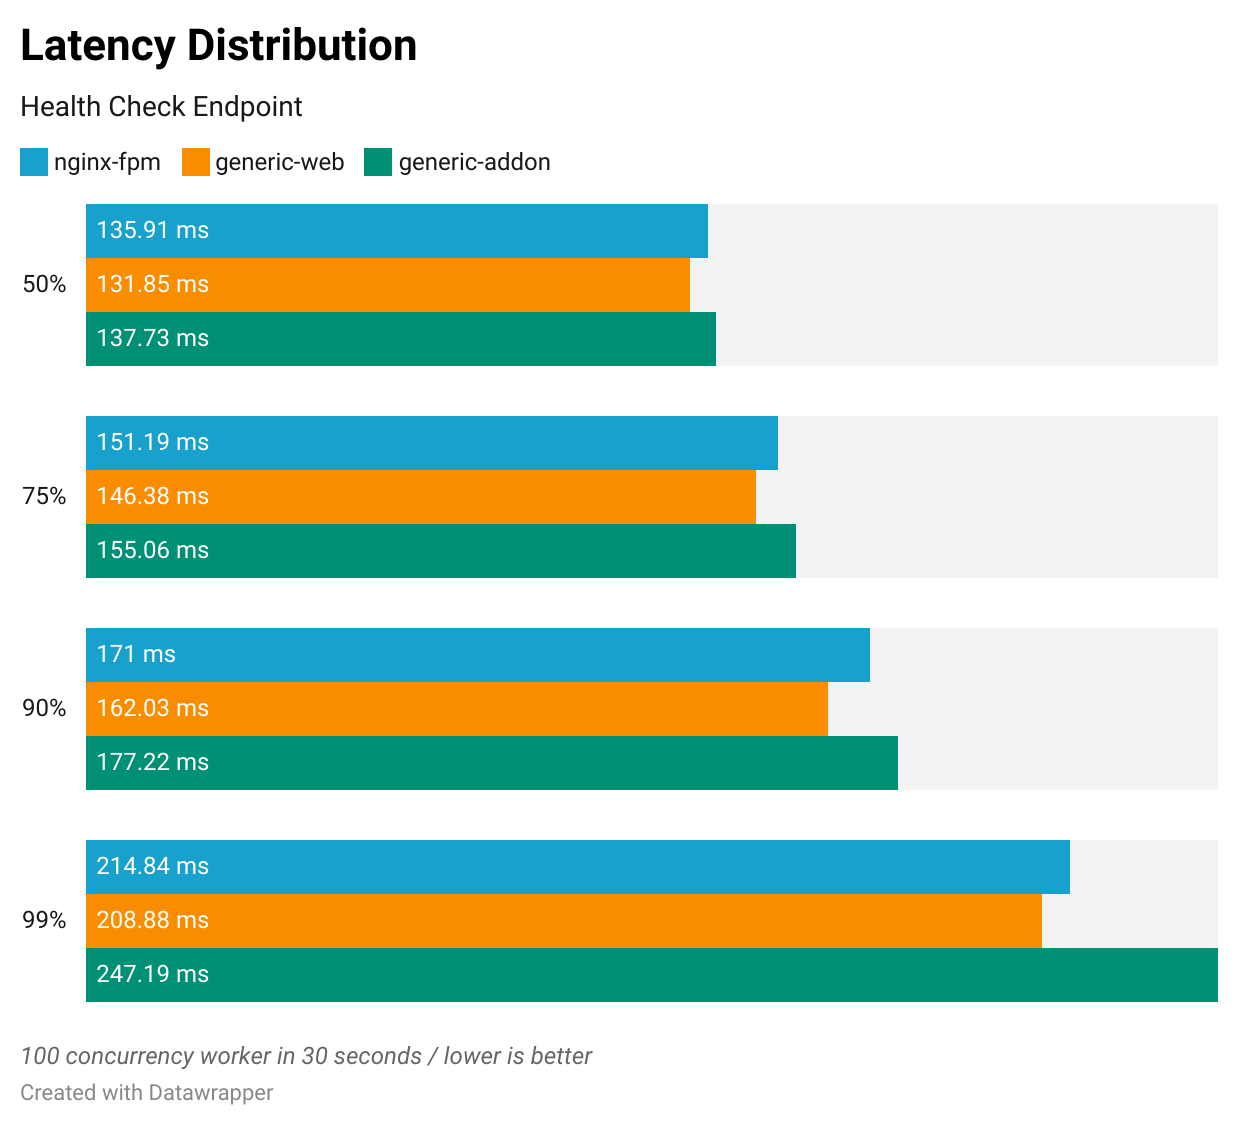
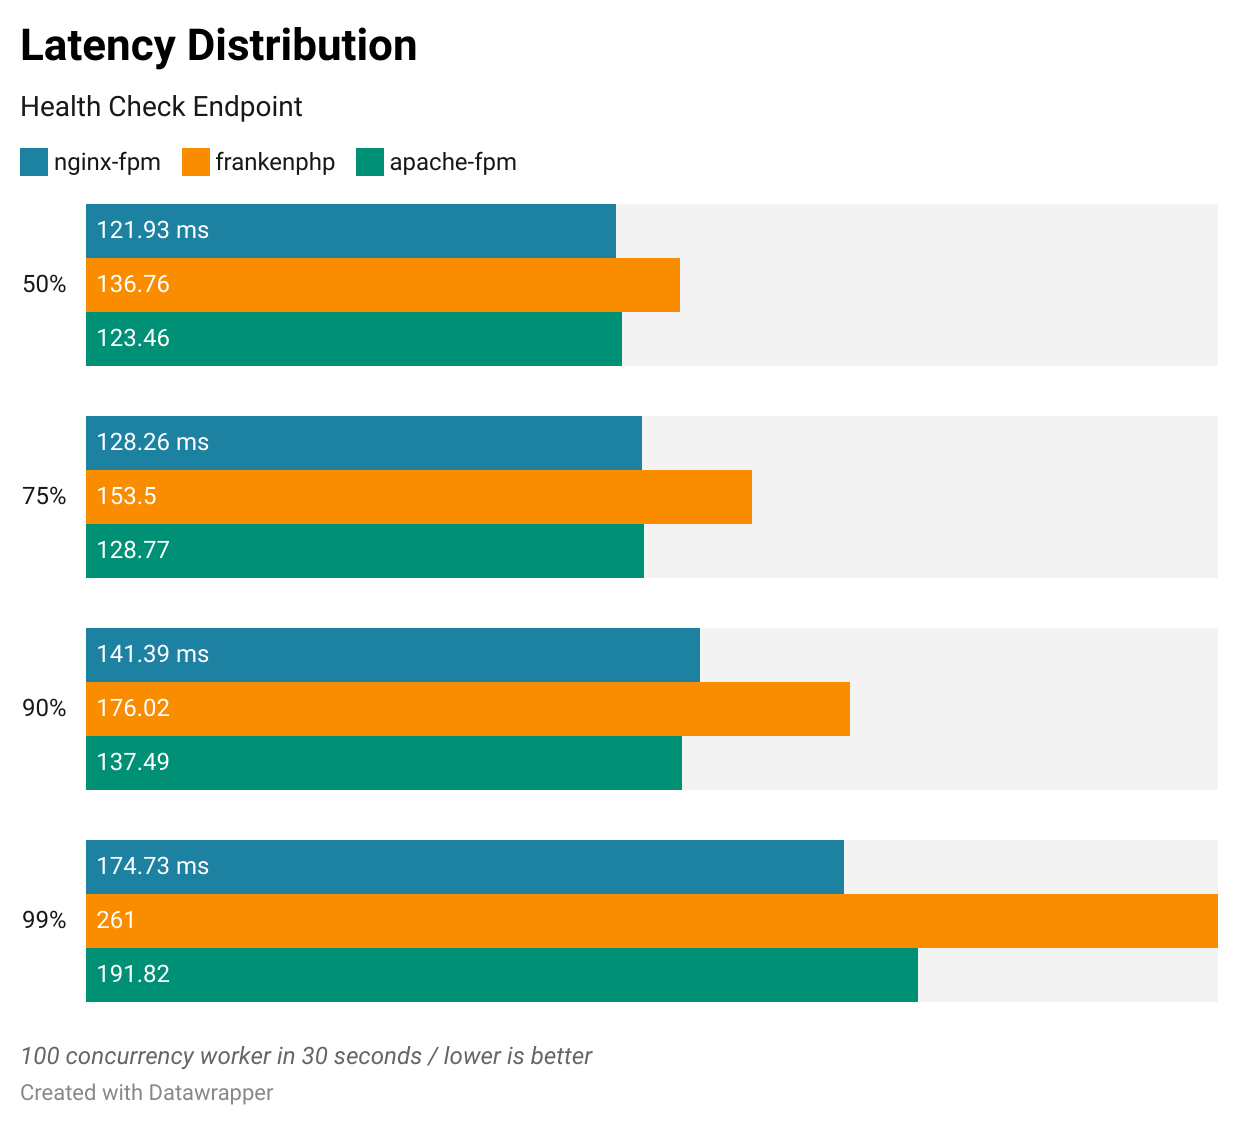
blog: update FrankenPHP instructions

diff --git a/src/content/blog/using-frankenphp-with-ddev.md b/src/content/blog/using-frankenphp-with-ddev.md
@@ -1,8 +1,8 @@
 ---
 title: "Using FrankenPHP with DDEV"
 pubDate: 2025-07-03
-modifiedDate: 2025-11-27
-modifiedComment: The FrankenPHP add-on is now official.
+modifiedDate: 2025-12-30
+modifiedComment: Update FrankenPHP add-on instructions, remove deprecated content, update benchmark results.
 summary: Learn how to use FrankenPHP with DDEV through the official add-on or Debian packages. Includes installation steps, features, and performance benchmarks.
 author: Stas Zhuk
 featureImage:
@@ -20,16 +20,13 @@ The PHP ecosystem is changing fast, with tools like [FrankenPHP](https://franken
 
 FrankenPHP is now [officially supported](https://thephp.foundation/blog/2025/05/15/frankenphp/) by The PHP Foundation.
 
-This guide explains two ways to integrate FrankenPHP with DDEV:
-
-1. **Official DDEV add-on** (recommended): Run FrankenPHP as a separate service with full PHP extension support and flexibility
-2. **Debian packages**: Install FrankenPHP directly in the web container (PHP 8.4 only, limited features)
+This guide explains how FrankenPHP can be used with DDEV using [ddev/ddev-frankenphp](https://github.com/ddev/ddev-frankenphp) add-on.
 
 ### Generic web server
 
 This blog shows examples of the recently added [DDEV's generic web server](https://docs.ddev.com/en/stable/users/extend/customization-extendibility/#using-nodejs-as-ddevs-primary-web-server), which supports flexible configurations. It allows you to use any custom web server you want, including Node.js, Python, Ruby, etc.
 
-## DDEV FrankenPHP Add-on (Recommended)
+## DDEV FrankenPHP Add-on
 
 The [ddev/ddev-frankenphp](https://github.com/ddev/ddev-frankenphp) add-on is now officially maintained by the DDEV team! It has matured to production-ready status with full feature support.
 
@@ -40,11 +37,12 @@ ddev add-on get ddev/ddev-frankenphp
 ddev restart
 ```
 
-To add PHP extensions (see supported extensions [here](https://github.com/mlocati/docker-php-extension-installer?tab=readme-ov-file#supported-php-extensions)):
+Install pre-packaged extensions using the `php-zts-` prefix (see [supported extensions](https://pkg.henderkes.com/84/php-zts/packages?type=debian)):
 
 ```bash
-ddev dotenv set .ddev/.env.web --frankenphp-custom-extensions="redis memcached"
-ddev stop && ddev debug rebuild && ddev start
+# install mongodb and sqlsrv extensions
+ddev config --webimage-extra-packages="php-zts-mongodb,php-zts-sqlsrv"
+ddev restart
 ```
 
 ### ✨ Features:
@@ -53,74 +51,16 @@ ddev stop && ddev debug rebuild && ddev start
 - Install any PHP extension (Redis, Xdebug, Memcached, etc.)
 - Custom FrankenPHP options supported
 - Worker mode supported for maximum performance
-- Full debugging support: [`ddev xdebug`](https://docs.ddev.com/en/stable/users/usage/commands/#xdebug), [`ddev xhprof`](https://docs.ddev.com/en/stable/users/usage/commands/#xhprof), [`ddev xhgui`](https://docs.ddev.com/en/stable/users/usage/commands/#xhgui)
-
-Note: Initial `ddev start` takes longer due to manual extension compilation.
+- Full debugging support: [`ddev blackfire`](https://docs.ddev.com/en/stable/users/usage/commands/#blackfire), [`ddev xdebug`](https://docs.ddev.com/en/stable/users/usage/commands/#xdebug), [`ddev xhprof`](https://docs.ddev.com/en/stable/users/usage/commands/#xhprof), [`ddev xhgui`](https://docs.ddev.com/en/stable/users/usage/commands/#xhgui)
 
 If you want to suggest some feature or found a bug, feel free to [open an issue](https://github.com/ddev/ddev-frankenphp/issues).
-
-## Alternative: FrankenPHP via Debian Packages
-
-FrankenPHP can also be installed directly in the web container using Debian packages. This example from the [DDEV quickstart](https://docs.ddev.com/en/stable/users/quickstart/#generic-frankenphp) shows a setup for a Drupal 11 project where FrankenPHP runs as an extra daemon.
-
-### ⚙ Installation:
-
-```bash
-export FRANKENPHP_SITENAME=my-frankenphp-site
-mkdir ${FRANKENPHP_SITENAME} && cd ${FRANKENPHP_SITENAME}
-ddev config --project-type=drupal11 --webserver-type=generic --docroot=web --php-version=8.4
-ddev start
-
-cat <<'EOF' > .ddev/config.frankenphp.yaml
-web_extra_daemons:
-  - name: "frankenphp"
-    command: "frankenphp php-server --listen=0.0.0.0:80 --root=\"/var/www/html/${DDEV_DOCROOT:-}\" -v -a"
-    directory: /var/www/html
-web_extra_exposed_ports:
-  - name: "frankenphp"
-    container_port: 80
-    http_port: 80
-    https_port: 443
-EOF
-
-cat <<'DOCKERFILEEND' >.ddev/web-build/Dockerfile.frankenphp
-RUN curl -fsSL https://key.henderkes.com/static-php.gpg -o /usr/share/keyrings/static-php.gpg && \
-    echo "deb [signed-by=/usr/share/keyrings/static-php.gpg] https://deb.henderkes.com/ stable main" > /etc/apt/sources.list.d/static-php.list
-# Install FrankenPHP and extensions, see https://frankenphp.dev/docs/#deb-packages for details.
-# You can find the list of available extensions at https://deb.henderkes.com/pool/main/p/
-RUN (apt-get update || true) && DEBIAN_FRONTEND=noninteractive apt-get install -y -o Dpkg::Options::="--force-confnew" --no-install-recommends --no-install-suggests \
-    frankenphp \
-    php-zts-cli \
-    php-zts-gd \
-    php-zts-pdo-mysql
-# Make sure that 'php' command uses the ZTS version of PHP
-# and that the php.ini in use by FrankenPHP is the one from DDEV.
-RUN ln -sf /usr/bin/php-zts /usr/local/bin/php && \
-    ln -sf /etc/php/${DDEV_PHP_VERSION}/fpm/php.ini /etc/php-zts/php.ini
-DOCKERFILEEND
-
-ddev composer create-project drupal/recommended-project
-ddev composer require drush/drush
-ddev restart
-ddev drush site:install demo_umami --account-name=admin --account-pass=admin -y
-ddev launch
-# or automatically log in with
-ddev launch $(ddev drush uli)
-```
-
-### ⚠ Limitations:
-
-- PHP 8.4 only (no version flexibility)
-- Cannot customize FrankenPHP options
-- Worker mode not supported
-- No debugging support (`ddev xdebug`, `ddev xhprof`, `ddev xhgui` do not work)
 
 ## Resources
 
 - [FrankenPHP documentation](https://frankenphp.dev/docs/)
 - [DDEV's generic web server](https://docs.ddev.com/en/stable/users/extend/customization-extendibility/#using-nodejs-as-ddevs-primary-web-server)
 - [FrankenPHP add-on](https://github.com/ddev/ddev-frankenphp)
-- [FrankenPHP quickstart](https://docs.ddev.com/en/stable/users/quickstart/#generic-frankenphp)
+- [FrankenPHP Static PHP Package Repository](https://debs.henderkes.com/)
 - [Hola FrankenPHP! Laravel Octane Servers Comparison: Pushing the Boundaries of Performance](https://medium.com/beyn-technology/hola-frankenphp-laravel-octane-servers-comparison-pushing-the-boundaries-of-performance-d3e7ad8e652c)
 
 ## Benchmarking
@@ -128,8 +68,8 @@ ddev launch $(ddev drush uli)
 Using [ddev-frankenphp-benchmark](https://github.com/stasadev/ddev-frankenphp-benchmark), I compared three setups:
 
 - `nginx-fpm`: DDEV's `nginx-fpm` web server with `php-fpm`
-- `generic-web`: DDEV's `generic` web server with FrankenPHP inside the `web` container (static binary)
-- `generic-addon`: DDEV's `generic` web server with FrankenPHP inside the `frankenphp` container (with `pdo_mysql` extension)
+- `apache-fpm`: DDEV's `apache-fpm`  web server with `php-fpm`
+- `frankenphp-addon`: DDEV's `generic` web server with `frankenphp`
 
 Summary:
 
@@ -142,14 +82,14 @@ Summary:
 ### Benchmarking Results
 
 <b>Software:</b><br>
-DDEV: v1.24.6<br>
+DDEV: v1.24.10<br>
 Mutagen: disabled<br>
 PHP: v8.4<br>
-Laravel: v12.19.3<br>
-FrankenPHP: v1.7.0<br>
-Docker Engine: v28.3.0<br>
+Laravel: v12.44.0<br>
+FrankenPHP: v1.11.1<br>
+Docker Engine: v29.1.3<br>
 Operating System: Manjaro Linux AMD64<br>
-Kernel Version: 6.12.35-1-MANJARO
+Kernel Version: 6.12.63-1-MANJARO
 
 <b>Hardware:</b><br>
 Intel i7 8750H (6 Core/12 Thread, 2.2 Ghz, Turbo 4.1 Ghz)<br>
